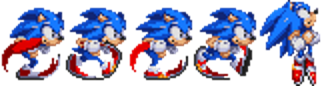
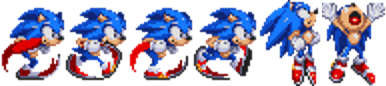
puntaje, colision, vidas

diff --git a/script.js b/script.js
@@ -4,6 +4,10 @@ window.addEventListener("load", function () {
   canvas.width = 1200;
   canvas.height = 720;
   let enemies = [];
+  let score = 0;
+  let gameOver = false;
+  let vidas = 2;
+  let golpeado = false;
 
   class InputHandler {
     constructor() {
@@ -27,9 +31,9 @@ window.addEventListener("load", function () {
     constructor(gameWidth, gameHeight) {
       this.gameWidth = gameWidth;
       this.gameHeight = gameHeight;
-      this.width = 65;
+      this.width = 64;
       this.height = 86;
-      this.x = 10;
+      this.x = 100;
       this.y = this.gameHeight - this.height;
       this.image = document.getElementById("imagenPlayer");
       this.frameX = 0;
@@ -56,7 +60,27 @@ window.addEventListener("load", function () {
       );
     }
 
-    update(input, deltaTime) {
+    update(input, deltaTime, enemies) {
+      //colicion
+      enemies.forEach((enemy) => {
+        const dx = enemy.x + enemy.width / 2 - (this.x + this.width / 2);
+        const dy = enemy.y + enemy.height / 2 - (this.y + this.height / 2);
+        const distancia = Math.sqrt(dx * dx + dy * dy);
+        if (distancia < enemy.width / 2 + this.width / 2) {
+          console.log(vidas);
+          vidas--;
+          golpeado = true;
+        }
+      });
+      if (golpeado) {
+        enemies.shift();
+        golpeado = false;
+      }
+      if (vidas == 0) {
+        this.frameX = 5;
+        gameOver = true;
+      }
+      //salto
       if (input.keys.indexOf("ArrowUp") > -1 && this.onGround()) {
         this.vy -= 30;
         this.frameX = 4;
@@ -64,7 +88,9 @@ window.addEventListener("load", function () {
       this.y += this.vy;
       if (!this.onGround()) {
         this.vy += this.weight;
-      } else {
+      }
+      //animacion corriendo
+      else {
         if (this.frameTimer > this.frameInterval) {
           if (this.frameX < 3) {
             this.frameX++;
@@ -128,6 +154,7 @@ window.addEventListener("load", function () {
       this.frameInterval = 1000 / this.fps;
       this.frameX = 0;
       this.speed = 8;
+      this.finalized = false;
     }
 
     draw(context) {
@@ -156,6 +183,10 @@ window.addEventListener("load", function () {
       } else {
         this.frameTimer += deltaTime;
       }
+      if (this.x < 0 - this.width) {
+        this.finalized = true;
+        score++;
+      }
     }
   }
   //
@@ -171,9 +202,15 @@ window.addEventListener("load", function () {
       enemy.draw(ctx);
       enemy.update(deltaTime);
     });
+    enemies = enemies.filter((enemy) => !enemy.finalized);
   }
 
-  function displayStatusText() {}
+  function displayText(context) {
+    context.fillStyle = "black";
+    context.font = "40px Helvetica";
+    context.fillText("Puntaje: " + score, 20, 50);
+    context.fillText("Vidas: " + vidas, 800, 50);
+  }
 
   const input = new InputHandler();
   const player = new Player(canvas.width, canvas.height);
@@ -184,15 +221,17 @@ window.addEventListener("load", function () {
   let randomEnemyInterval = Math.random() * 1000 + 500;
 
   function animate(timeStamp) {
+    if (!gameOver) requestAnimationFrame(animate);
+
     const deltaTime = timeStamp - lastTime;
     lastTime = timeStamp;
     ctx.clearRect(0, 0, canvas.width, canvas.height);
     background.draw(ctx);
     background.update();
     player.draw(ctx);
-    player.update(input, deltaTime);
+    player.update(input, deltaTime, enemies);
     handleEnemies(deltaTime);
-    requestAnimationFrame(animate);
+    displayText(ctx);
   }
   animate(0);
 });
